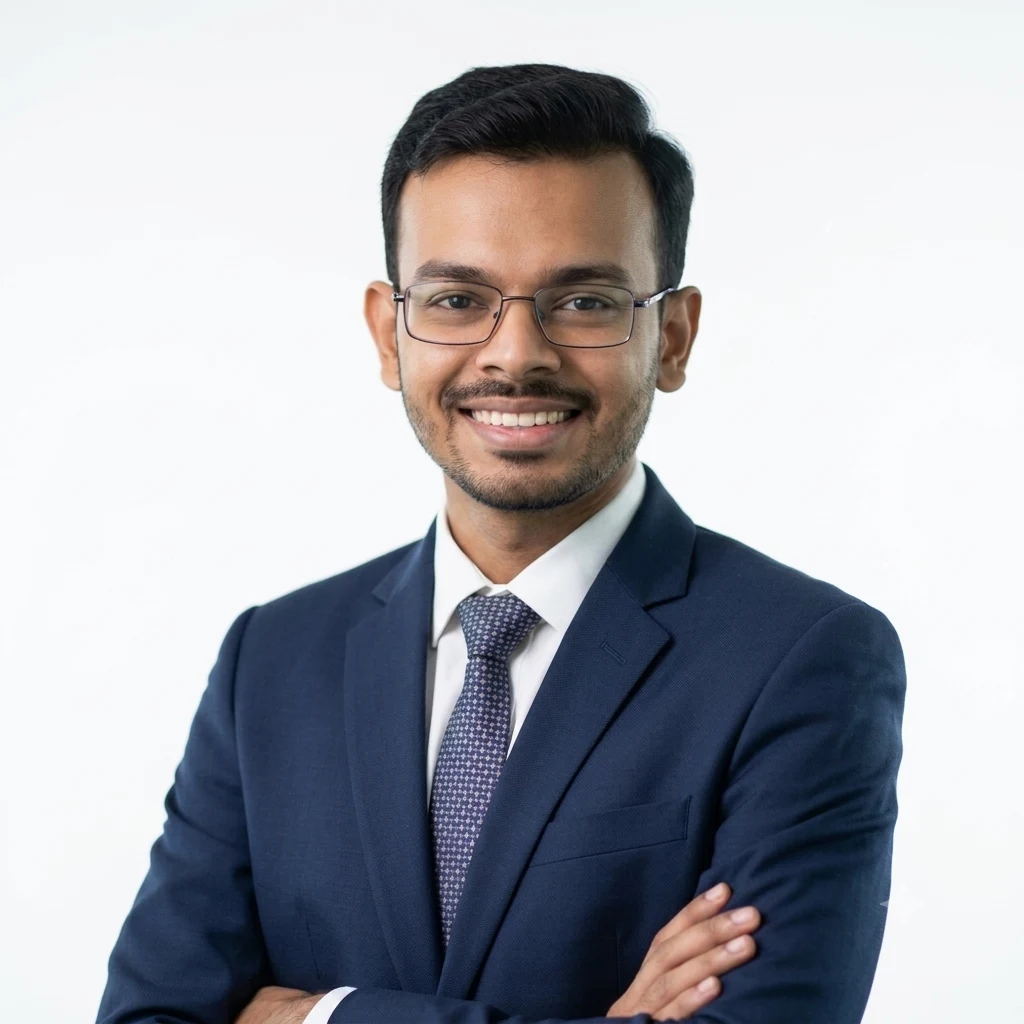
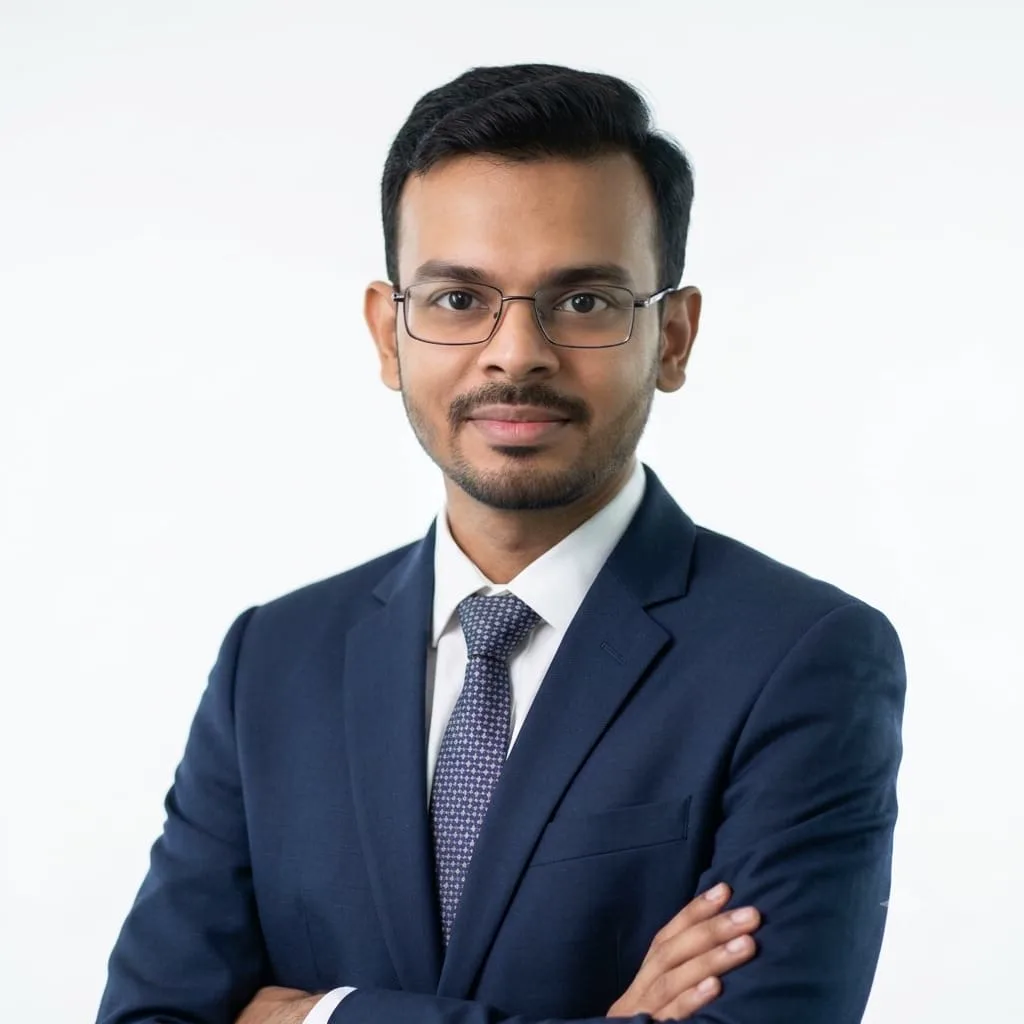
Design Lead title, light default theme, new headshot
- Metadata (title, description, openGraph) now reads "Design Lead, Fire
  Protection". portfolioContent already had the correct role strings.
- Default theme flipped to light for first-time visitors: FOUC
  bootstrap script and ThemeToggle both default to light and treat
  prefers-color-scheme: dark as the opt-in path to dark. Stored
  localStorage.hsTheme still wins.
- public/headshot.webp replaced with the new portrait supplied on
  2026-07-21, ffmpeg-converted from JPEG to WebP at quality 82.

Changed region(s): [[0.4062, 0.25, 0.5938, 0.5]]

diff --git a/src/components/preview/ThemeToggle.tsx b/src/components/preview/ThemeToggle.tsx
@@ -11,28 +11,29 @@ import { useEffect, useState } from "react";
  *
  * Precedence for the initial theme:
  *   1. `localStorage.hsTheme` if the user has picked one before
- *   2. `prefers-color-scheme: light` if no stored preference
- *   3. Otherwise stay dark (the design's home base)
+ *   2. `prefers-color-scheme: dark` if the OS is set to dark
+ *   3. Otherwise light (the site's default landing state)
  *
  * The pre-hydration script in RootLayout applies the same rule before
- * React mounts so there's no light-flash on load. This component just
- * mirrors the current value for the button label and writes changes.
+ * React mounts so there's no flash-of-wrong-theme on load. This
+ * component just mirrors the current value for the button label and
+ * writes changes.
  */
 
 type Theme = "dark" | "light";
 
 function readInitialTheme(): Theme {
-  if (typeof window === "undefined") return "dark";
+  if (typeof window === "undefined") return "light";
   const stored = window.localStorage.getItem("hsTheme");
   if (stored === "light" || stored === "dark") return stored;
-  const prefersLight = window.matchMedia(
-    "(prefers-color-scheme: light)"
+  const prefersDark = window.matchMedia(
+    "(prefers-color-scheme: dark)"
   ).matches;
-  return prefersLight ? "light" : "dark";
+  return prefersDark ? "dark" : "light";
 }
 
 export function ThemeToggle() {
-  const [theme, setTheme] = useState<Theme>("dark");
+  const [theme, setTheme] = useState<Theme>("light");
 
   // On mount, read the theme the pre-hydration script already applied so
   // the button reflects the true state, then keep DOM + localStorage in

diff --git a/src/app/layout.tsx b/src/app/layout.tsx
@@ -51,12 +51,12 @@ const inter = Inter({
 });
 
 export const metadata: Metadata = {
-  title: "Yashkumar Shah — Sr. Fire Protection Design Engineer",
+  title: "Yashkumar Shah — Design Lead, Fire Protection",
   description:
-    "Fire protection design for the buildings that should not burn. Sr. Fire Protection Design Engineer with 9+ years across hyperscale data centres, healthcare, aviation and commercial developments in Europe and the US.",
+    "Fire protection design for the buildings that should not burn. Design Lead, Fire Protection at Writech Industrial Services with 9+ years across hyperscale data centres, healthcare, aviation and commercial developments in Europe and the US.",
   metadataBase: new URL("https://yashkumarshah.com"),
   openGraph: {
-    title: "Yashkumar Shah — Sr. Fire Protection Design Engineer",
+    title: "Yashkumar Shah — Design Lead, Fire Protection",
     description:
       "Fire protection design for the buildings that should not burn. Ireland-based, working across Europe and the US.",
     url: "https://yashkumarshah.com",
@@ -67,20 +67,20 @@ export const metadata: Metadata = {
 };
 
 // Pre-hydration theme bootstrap. Runs synchronously in <head> before any
-// paint so the correct dark/light palette is applied on first render,
-// avoiding a flash-of-wrong-theme when the stored preference is light.
-// Same rule the ThemeToggle uses at runtime: localStorage > OS preference
-// > dark as the design's home base.
+// paint so the correct light/dark palette is applied on first render.
+// Precedence: localStorage.hsTheme > OS prefers-color-scheme > light as
+// the site's default landing state (per client). Kept in lockstep with
+// the runtime rule in ThemeToggle so both agree on first paint.
 const THEME_BOOTSTRAP = `
 (function(){
   try {
     var stored = localStorage.getItem('hsTheme');
     var theme = stored === 'light' || stored === 'dark'
       ? stored
-      : (window.matchMedia('(prefers-color-scheme: light)').matches ? 'light' : 'dark');
+      : (window.matchMedia('(prefers-color-scheme: dark)').matches ? 'dark' : 'light');
     document.documentElement.dataset.theme = theme;
   } catch (e) {
-    document.documentElement.dataset.theme = 'dark';
+    document.documentElement.dataset.theme = 'light';
   }
 })();
 `;